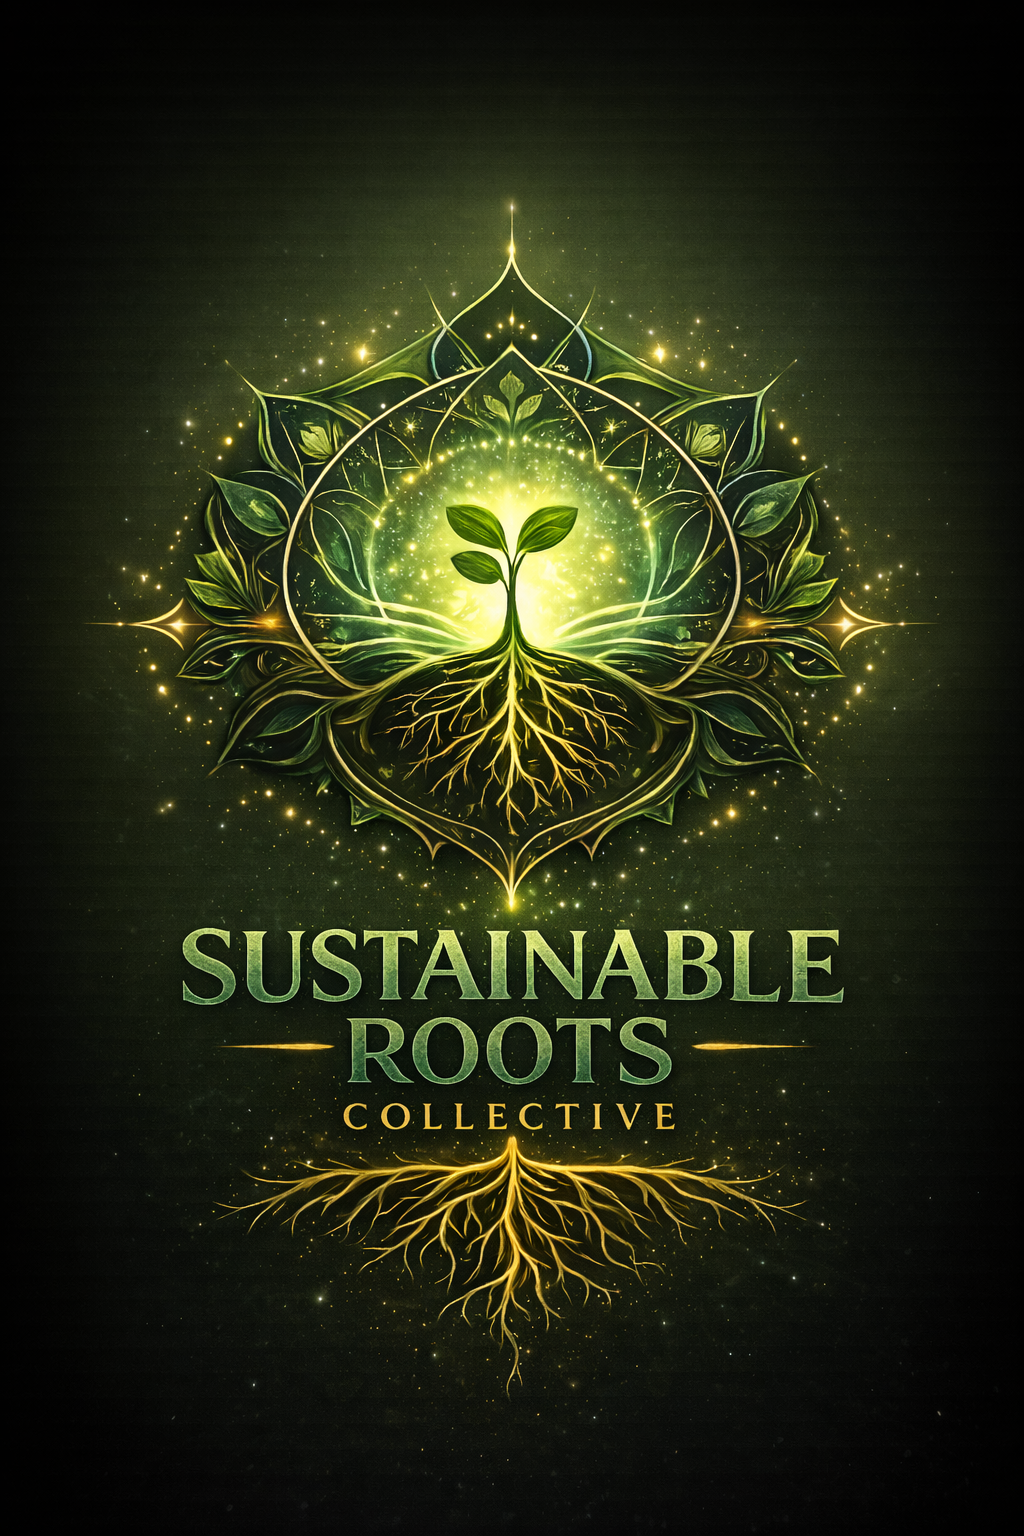
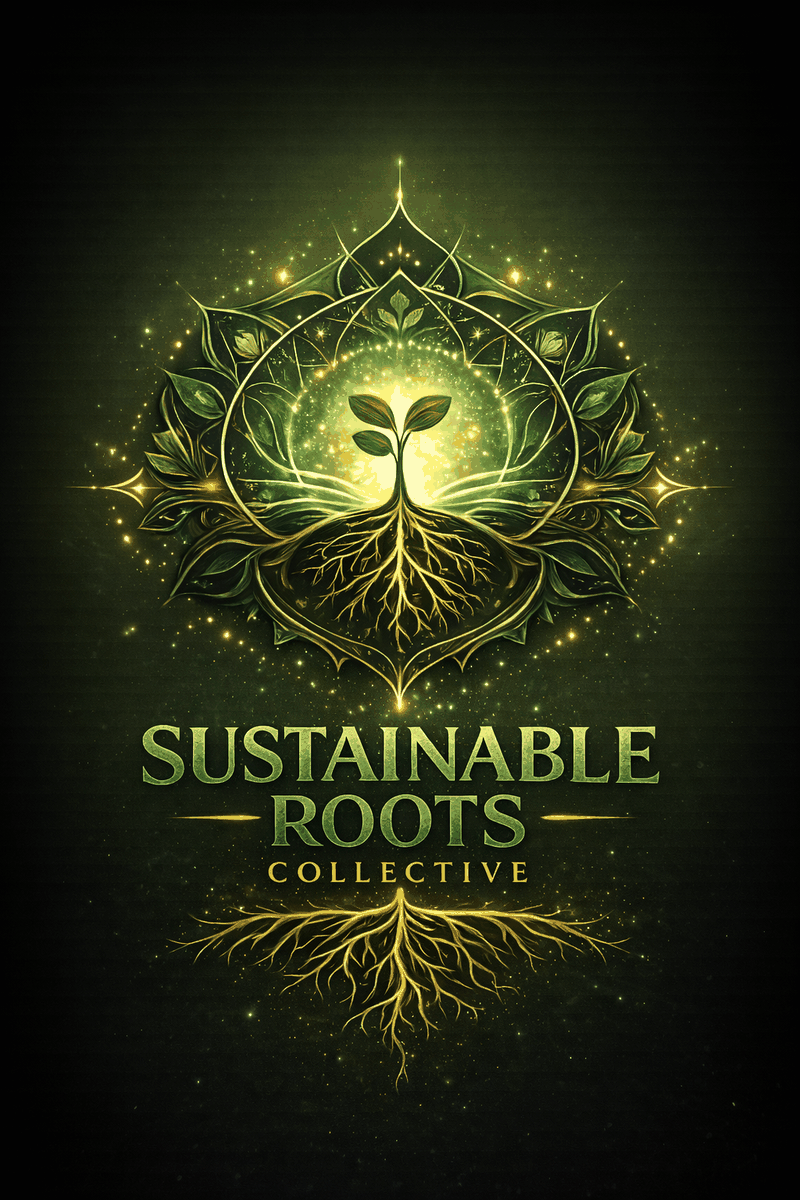
Optimize hero image to WebP and add security headers

diff --git a/index.html b/index.html
@@ -7,7 +7,7 @@
   <meta name="description" content="Fresh, small-batch microgreens grown in Muskegon for local homes, chefs, and community buyers. Join the weekly harvest list or ask about restaurant supply." />
   <meta property="og:title" content="Sustainable Roots Collective" />
   <meta property="og:description" content="Fresh, small-batch microgreens grown for Muskegon homes, chefs, and community buyers." />
-  <meta property="og:image" content="assets/brand/hero-art.png" />
+  <meta property="og:image" content="assets/brand/hero-art-opt.png" />
   <meta property="og:type" content="website" />
   <link rel="icon" type="image/svg+xml" href="assets/brand/favicon.svg" />
   <link rel="canonical" href="https://sustainable-roots-collective-site.netlify.app/index.html" />
@@ -48,7 +48,10 @@
           <p class="hero-note">Home customers can ask about current availability and pickup. Restaurants can inquire about recurring supply. Market shoppers can follow seasonal appearances and updates.</p>
         </div>
         <div class="hero-art-wrap">
-          <div class="hero-art"><img src="assets/brand/hero-art.png" alt="Glowing Sustainable Roots Collective artwork showing a sprout with roots" /></div>
+          <div class="hero-art"><picture>
+            <source srcset="assets/brand/hero-art.webp" type="image/webp">
+            <img src="assets/brand/hero-art-opt.png" width="900" height="1350" fetchpriority="high" decoding="async" alt="Glowing Sustainable Roots Collective artwork showing a sprout with roots" />
+          </picture></div>
         </div>
       </div>
     </section>
@@ -83,7 +86,10 @@
         <div class="product-showcase">
           <div class="product-feature">
             <div class="product-shot tall">
-              <img src="assets/brand/hero-art.png" alt="Decorative placeholder for future microgreen product photography" />
+              <picture>
+                <source srcset="assets/brand/hero-art.webp" type="image/webp">
+                <img src="assets/brand/hero-art-opt.png" width="900" height="1350" loading="lazy" decoding="async" alt="Decorative placeholder for future microgreen product photography" />
+              </picture>
               <div class="product-label">
                 <strong>Product photography belongs here</strong>
                 <span>This space is ready for real trays, harvest shots, and close-up texture once Brian has photos of the greens.</span>

diff --git a/about.html b/about.html
@@ -7,7 +7,7 @@
   <meta name="description" content="Learn more about Brian and the story behind Sustainable Roots Collective, a Muskegon microgreens business rooted in freshness, care, and real follow-through." />
   <meta property="og:title" content="About Sustainable Roots Collective" />
   <meta property="og:description" content="A rooted, local microgreens business built from a love of growing, practical systems, and community." />
-  <meta property="og:image" content="assets/brand/hero-art.png" />
+  <meta property="og:image" content="assets/brand/hero-art-opt.png" />
   <link rel="icon" type="image/svg+xml" href="assets/brand/favicon.svg" />
   <link rel="canonical" href="https://sustainable-roots-collective-site.netlify.app/about.html" />
   <link rel="stylesheet" href="styles.css" />

diff --git a/contact.html b/contact.html
@@ -7,7 +7,7 @@
   <meta name="description" content="Contact Sustainable Roots Collective to join the weekly harvest list, ask about pickup, or inquire about restaurant supply in Muskegon." />
   <meta property="og:title" content="Contact Sustainable Roots Collective" />
   <meta property="og:description" content="Join the weekly harvest list, ask about pickup, or reach out about restaurant supply." />
-  <meta property="og:image" content="assets/brand/hero-art.png" />
+  <meta property="og:image" content="assets/brand/hero-art-opt.png" />
   <link rel="icon" type="image/svg+xml" href="assets/brand/favicon.svg" />
   <link rel="canonical" href="https://sustainable-roots-collective-site.netlify.app/contact.html" />
   <link rel="stylesheet" href="styles.css" />

diff --git a/markets.html b/markets.html
@@ -7,7 +7,7 @@
   <meta name="description" content="Find local market updates and in-person appearances for Sustainable Roots Collective in Muskegon and nearby communities." />
   <meta property="og:title" content="Markets | Sustainable Roots Collective" />
   <meta property="og:description" content="See where Sustainable Roots Collective may appear in person and how to stay updated." />
-  <meta property="og:image" content="assets/brand/hero-art.png" />
+  <meta property="og:image" content="assets/brand/hero-art-opt.png" />
   <link rel="icon" type="image/svg+xml" href="assets/brand/favicon.svg" />
   <link rel="canonical" href="https://sustainable-roots-collective-site.netlify.app/markets.html" />
   <link rel="stylesheet" href="styles.css" />

diff --git a/restaurants.html b/restaurants.html
@@ -7,7 +7,7 @@
   <meta name="description" content="Restaurant microgreens for Muskegon-area kitchens. Ask about fresh local supply, current varieties, and chef-focused inquiries." />
   <meta property="og:title" content="Restaurant Supply | Sustainable Roots Collective" />
   <meta property="og:description" content="Fresh, local microgreens for color, texture, flavor, and reliable chef use." />
-  <meta property="og:image" content="assets/brand/hero-art.png" />
+  <meta property="og:image" content="assets/brand/hero-art-opt.png" />
   <link rel="icon" type="image/svg+xml" href="assets/brand/favicon.svg" />
   <link rel="canonical" href="https://sustainable-roots-collective-site.netlify.app/restaurants.html" />
   <link rel="stylesheet" href="styles.css" />